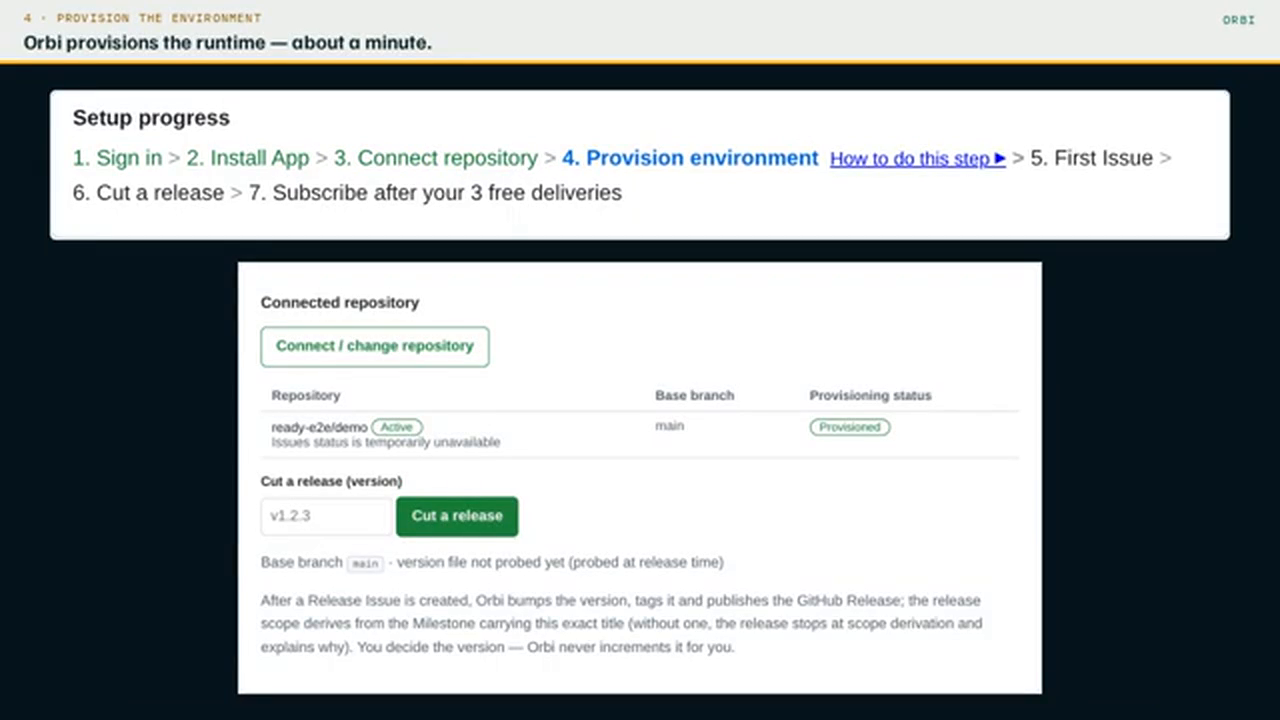
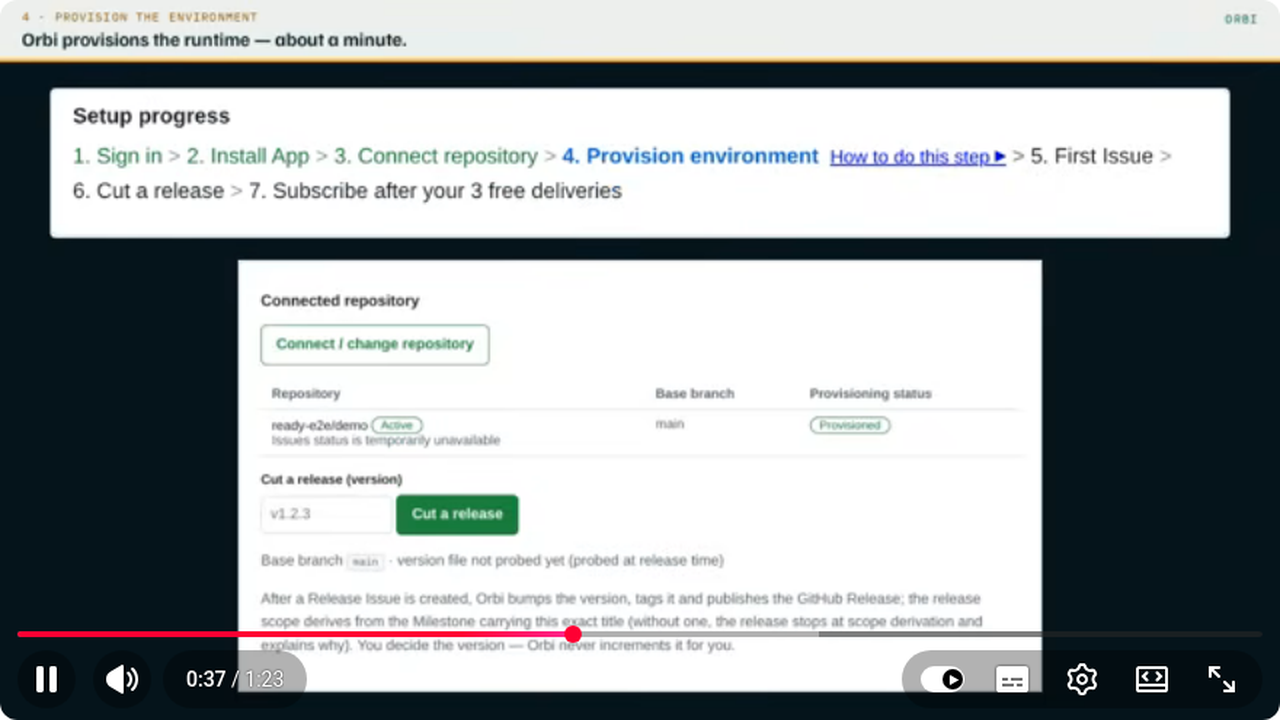
Fix seven-step blog screenshots

diff --git a/public/blog/watch-the-six-steps/index.html b/public/blog/watch-the-six-steps/index.html
@@ -85,8 +85,8 @@
 
     <article class="post-body">
 <p>There is now a video of the whole setup: <a href="https://www.youtube.com/watch?v=_OEaBwrLvvs">Orbi Cloud: from zero to a tagged release in seven steps</a>. It runs 83 seconds, it is in English, and it has chapters, so you can jump to the step you are stuck on.</p>
-<figure class="post-media"><iframe src="https://www.youtube.com/embed/_OEaBwrLvvs" title="Orbi Cloud setup from zero to subscription in seven steps" loading="lazy" allow="accelerometer; autoplay; clipboard-write; encrypted-media; gyroscope; picture-in-picture" allowfullscreen></iframe><figcaption>Watch the complete seven-step Orbi Cloud setup.</figcaption></figure><h3>Six key screens from the seven-step flow</h3>
-<figure class="post-media"><img src="/img/step-1-sign-in.png" alt="Orbi Cloud sign-in screen" width="1280" height="720" loading="lazy"><figcaption>Step 1: Orbi Cloud sign-in screen.</figcaption></figure><figure class="post-media"><img src="/img/step-2-install-app.png" alt="GitHub App installation screen" width="1280" height="720" loading="lazy"><figcaption>Step 2: GitHub App installation screen.</figcaption></figure><figure class="post-media"><img src="/img/step-3-connect-repo.png" alt="Repository connection form" width="1280" height="720" loading="lazy"><figcaption>Step 3: Repository connection form.</figcaption></figure><figure class="post-media"><img src="/img/step-4-provision.png" alt="Environment provisioning status" width="1280" height="720" loading="lazy"><figcaption>Step 4: Environment provisioning status.</figcaption></figure><figure class="post-media"><img src="/img/step-5-first-issue.png" alt="First Issue status screen" width="1280" height="720" loading="lazy"><figcaption>Step 5: First Issue status screen.</figcaption></figure><figure class="post-media"><img src="/img/step-6-release.png" alt="Release form with version field" width="1280" height="720" loading="lazy"><figcaption>Step 6: Release form with version field.</figcaption></figure><p>The seven steps are the current Cloud onboarding path:</p>
+<figure class="post-media"><iframe src="https://www.youtube.com/embed/_OEaBwrLvvs" title="Orbi Cloud setup from zero to subscription in seven steps" loading="lazy" allow="accelerometer; autoplay; clipboard-write; encrypted-media; gyroscope; picture-in-picture" allowfullscreen></iframe><figcaption>Watch the complete seven-step Orbi Cloud setup.</figcaption></figure><h3>Seven key screens from the seven-step flow</h3>
+<figure class="post-media"><img src="/img/step-1-sign-in.png" alt="Orbi Cloud sign-in screen" width="1280" height="360"><figcaption>Step 1: Orbi Cloud sign-in screen.</figcaption></figure><figure class="post-media"><img src="/img/step-2-install-app.png" alt="GitHub App installation screen" width="1280" height="720"><figcaption>Step 2: GitHub App installation screen.</figcaption></figure><figure class="post-media"><img src="/img/step-3-connect-repo.png" alt="Repository connection form" width="1280" height="720"><figcaption>Step 3: Repository connection form.</figcaption></figure><figure class="post-media"><img src="/img/step-4-provision.png" alt="Environment provisioning status" width="1280" height="720"><figcaption>Step 4: Environment provisioning status.</figcaption></figure><figure class="post-media"><img src="/img/step-5-first-issue.png" alt="First Issue status screen" width="1280" height="720"><figcaption>Step 5: First Issue status screen.</figcaption></figure><figure class="post-media"><img src="/img/step-6-release.png" alt="Release form with version field" width="1280" height="720"><figcaption>Step 6: Release form with version field.</figcaption></figure><figure class="post-media"><img src="/img/step-7-subscribe.png" alt="Managed Cloud subscription screen" width="1280" height="720"><figcaption>Step 7: Managed Cloud subscription screen.</figcaption></figure><p>The seven steps are the current Cloud onboarding path:</p>
 <ol>
 <li><strong>Sign in</strong> with your GitHub identity.</li>
 <li><strong>Install the Orbi GitHub App</strong> on your account.</li>

diff --git a/public/zh/blog/watch-the-six-steps/index.html b/public/zh/blog/watch-the-six-steps/index.html
@@ -85,8 +85,8 @@
 
     <article class="post-body">
 <p>上手流程现在有视频了：<a href="https://www.youtube.com/watch?v=_OEaBwrLvvs">Orbi Cloud: from zero to a tagged release in seven steps</a>。83 秒，英文，带章节，卡在哪一步就跳到哪一步。</p>
-<figure class="post-media"><iframe src="https://www.youtube.com/embed/_OEaBwrLvvs" title="Orbi Cloud 七步上手流程：从登录到订阅" loading="lazy" allow="accelerometer; autoplay; clipboard-write; encrypted-media; gyroscope; picture-in-picture" allowfullscreen></iframe><figcaption>观看完整的七步 Orbi Cloud 上手流程。</figcaption></figure><h3>七步流程里的六个关键画面</h3>
-<figure class="post-media"><img src="/img/step-1-sign-in.png" alt="Orbi Cloud 登录页面" width="1280" height="720" loading="lazy"><figcaption>第 1 步：Orbi Cloud 登录页面。</figcaption></figure><figure class="post-media"><img src="/img/step-2-install-app.png" alt="GitHub App 安装页面" width="1280" height="720" loading="lazy"><figcaption>第 2 步：GitHub App 安装页面。</figcaption></figure><figure class="post-media"><img src="/img/step-3-connect-repo.png" alt="连接仓库表单" width="1280" height="720" loading="lazy"><figcaption>第 3 步：连接仓库表单。</figcaption></figure><figure class="post-media"><img src="/img/step-4-provision.png" alt="开通运行环境状态" width="1280" height="720" loading="lazy"><figcaption>第 4 步：开通运行环境状态。</figcaption></figure><figure class="post-media"><img src="/img/step-5-first-issue.png" alt="第一个 Issue 的状态页面" width="1280" height="720" loading="lazy"><figcaption>第 5 步：第一个 Issue 的状态页面。</figcaption></figure><figure class="post-media"><img src="/img/step-6-release.png" alt="填写版本号的发版表单" width="1280" height="720" loading="lazy"><figcaption>第 6 步：填写版本号的发版表单。</figcaption></figure><p>现在的 Cloud 上手流程一共七步：</p>
+<figure class="post-media"><iframe src="https://www.youtube.com/embed/_OEaBwrLvvs" title="Orbi Cloud 七步上手流程：从登录到订阅" loading="lazy" allow="accelerometer; autoplay; clipboard-write; encrypted-media; gyroscope; picture-in-picture" allowfullscreen></iframe><figcaption>观看完整的七步 Orbi Cloud 上手流程。</figcaption></figure><h3>七步流程里的七个关键画面</h3>
+<figure class="post-media"><img src="/img/step-1-sign-in.png" alt="Orbi Cloud 登录页面" width="1280" height="360"><figcaption>第 1 步：Orbi Cloud 登录页面。</figcaption></figure><figure class="post-media"><img src="/img/step-2-install-app.png" alt="GitHub App 安装页面" width="1280" height="720"><figcaption>第 2 步：GitHub App 安装页面。</figcaption></figure><figure class="post-media"><img src="/img/step-3-connect-repo.png" alt="连接仓库表单" width="1280" height="720"><figcaption>第 3 步：连接仓库表单。</figcaption></figure><figure class="post-media"><img src="/img/step-4-provision.png" alt="开通运行环境状态" width="1280" height="720"><figcaption>第 4 步：开通运行环境状态。</figcaption></figure><figure class="post-media"><img src="/img/step-5-first-issue.png" alt="第一个 Issue 的状态页面" width="1280" height="720"><figcaption>第 5 步：第一个 Issue 的状态页面。</figcaption></figure><figure class="post-media"><img src="/img/step-6-release.png" alt="填写版本号的发版表单" width="1280" height="720"><figcaption>第 6 步：填写版本号的发版表单。</figcaption></figure><figure class="post-media"><img src="/img/step-7-subscribe.png" alt="Managed Cloud 订阅页面" width="1280" height="720"><figcaption>第 7 步：Managed Cloud 订阅页面。</figcaption></figure><p>现在的 Cloud 上手流程一共七步：</p>
 <ol>
 <li><strong>登录</strong> —— 用你的 GitHub 身份。</li>
 <li><strong>安装 Orbi GitHub App</strong>。</li>

diff --git a/content/blog/watch-the-six-steps.md b/content/blog/watch-the-six-steps.md
@@ -17,19 +17,21 @@ There is now a video of the whole setup: [Orbi Cloud: from zero to a tagged rele
 
 <figure class="post-media"><iframe src="https://www.youtube.com/embed/_OEaBwrLvvs" title="Orbi Cloud setup from zero to subscription in seven steps" loading="lazy" allow="accelerometer; autoplay; clipboard-write; encrypted-media; gyroscope; picture-in-picture" allowfullscreen></iframe><figcaption>Watch the complete seven-step Orbi Cloud setup.</figcaption></figure>
 
-### Six key screens from the seven-step flow
+### Seven key screens from the seven-step flow
 
-<figure class="post-media"><img src="/img/step-1-sign-in.png" alt="Orbi Cloud sign-in screen" width="1280" height="720" loading="lazy"><figcaption>Step 1: Orbi Cloud sign-in screen.</figcaption></figure>
+<figure class="post-media"><img src="/img/step-1-sign-in.png" alt="Orbi Cloud sign-in screen" width="1280" height="360"><figcaption>Step 1: Orbi Cloud sign-in screen.</figcaption></figure>
 
-<figure class="post-media"><img src="/img/step-2-install-app.png" alt="GitHub App installation screen" width="1280" height="720" loading="lazy"><figcaption>Step 2: GitHub App installation screen.</figcaption></figure>
+<figure class="post-media"><img src="/img/step-2-install-app.png" alt="GitHub App installation screen" width="1280" height="720"><figcaption>Step 2: GitHub App installation screen.</figcaption></figure>
 
-<figure class="post-media"><img src="/img/step-3-connect-repo.png" alt="Repository connection form" width="1280" height="720" loading="lazy"><figcaption>Step 3: Repository connection form.</figcaption></figure>
+<figure class="post-media"><img src="/img/step-3-connect-repo.png" alt="Repository connection form" width="1280" height="720"><figcaption>Step 3: Repository connection form.</figcaption></figure>
 
-<figure class="post-media"><img src="/img/step-4-provision.png" alt="Environment provisioning status" width="1280" height="720" loading="lazy"><figcaption>Step 4: Environment provisioning status.</figcaption></figure>
+<figure class="post-media"><img src="/img/step-4-provision.png" alt="Environment provisioning status" width="1280" height="720"><figcaption>Step 4: Environment provisioning status.</figcaption></figure>
 
-<figure class="post-media"><img src="/img/step-5-first-issue.png" alt="First Issue status screen" width="1280" height="720" loading="lazy"><figcaption>Step 5: First Issue status screen.</figcaption></figure>
+<figure class="post-media"><img src="/img/step-5-first-issue.png" alt="First Issue status screen" width="1280" height="720"><figcaption>Step 5: First Issue status screen.</figcaption></figure>
 
-<figure class="post-media"><img src="/img/step-6-release.png" alt="Release form with version field" width="1280" height="720" loading="lazy"><figcaption>Step 6: Release form with version field.</figcaption></figure>
+<figure class="post-media"><img src="/img/step-6-release.png" alt="Release form with version field" width="1280" height="720"><figcaption>Step 6: Release form with version field.</figcaption></figure>
+
+<figure class="post-media"><img src="/img/step-7-subscribe.png" alt="Managed Cloud subscription screen" width="1280" height="720"><figcaption>Step 7: Managed Cloud subscription screen.</figcaption></figure>
 
 The seven steps are the current Cloud onboarding path:
 

diff --git a/content/blog/zh/watch-the-six-steps.md b/content/blog/zh/watch-the-six-steps.md
@@ -17,19 +17,21 @@ video_embed_url: https://www.youtube.com/embed/_OEaBwrLvvs
 
 <figure class="post-media"><iframe src="https://www.youtube.com/embed/_OEaBwrLvvs" title="Orbi Cloud 七步上手流程：从登录到订阅" loading="lazy" allow="accelerometer; autoplay; clipboard-write; encrypted-media; gyroscope; picture-in-picture" allowfullscreen></iframe><figcaption>观看完整的七步 Orbi Cloud 上手流程。</figcaption></figure>
 
-### 七步流程里的六个关键画面
+### 七步流程里的七个关键画面
 
-<figure class="post-media"><img src="/img/step-1-sign-in.png" alt="Orbi Cloud 登录页面" width="1280" height="720" loading="lazy"><figcaption>第 1 步：Orbi Cloud 登录页面。</figcaption></figure>
+<figure class="post-media"><img src="/img/step-1-sign-in.png" alt="Orbi Cloud 登录页面" width="1280" height="360"><figcaption>第 1 步：Orbi Cloud 登录页面。</figcaption></figure>
 
-<figure class="post-media"><img src="/img/step-2-install-app.png" alt="GitHub App 安装页面" width="1280" height="720" loading="lazy"><figcaption>第 2 步：GitHub App 安装页面。</figcaption></figure>
+<figure class="post-media"><img src="/img/step-2-install-app.png" alt="GitHub App 安装页面" width="1280" height="720"><figcaption>第 2 步：GitHub App 安装页面。</figcaption></figure>
 
-<figure class="post-media"><img src="/img/step-3-connect-repo.png" alt="连接仓库表单" width="1280" height="720" loading="lazy"><figcaption>第 3 步：连接仓库表单。</figcaption></figure>
+<figure class="post-media"><img src="/img/step-3-connect-repo.png" alt="连接仓库表单" width="1280" height="720"><figcaption>第 3 步：连接仓库表单。</figcaption></figure>
 
-<figure class="post-media"><img src="/img/step-4-provision.png" alt="开通运行环境状态" width="1280" height="720" loading="lazy"><figcaption>第 4 步：开通运行环境状态。</figcaption></figure>
+<figure class="post-media"><img src="/img/step-4-provision.png" alt="开通运行环境状态" width="1280" height="720"><figcaption>第 4 步：开通运行环境状态。</figcaption></figure>
 
-<figure class="post-media"><img src="/img/step-5-first-issue.png" alt="第一个 Issue 的状态页面" width="1280" height="720" loading="lazy"><figcaption>第 5 步：第一个 Issue 的状态页面。</figcaption></figure>
+<figure class="post-media"><img src="/img/step-5-first-issue.png" alt="第一个 Issue 的状态页面" width="1280" height="720"><figcaption>第 5 步：第一个 Issue 的状态页面。</figcaption></figure>
 
-<figure class="post-media"><img src="/img/step-6-release.png" alt="填写版本号的发版表单" width="1280" height="720" loading="lazy"><figcaption>第 6 步：填写版本号的发版表单。</figcaption></figure>
+<figure class="post-media"><img src="/img/step-6-release.png" alt="填写版本号的发版表单" width="1280" height="720"><figcaption>第 6 步：填写版本号的发版表单。</figcaption></figure>
+
+<figure class="post-media"><img src="/img/step-7-subscribe.png" alt="Managed Cloud 订阅页面" width="1280" height="720"><figcaption>第 7 步：Managed Cloud 订阅页面。</figcaption></figure>
 
 现在的 Cloud 上手流程一共七步：
 
